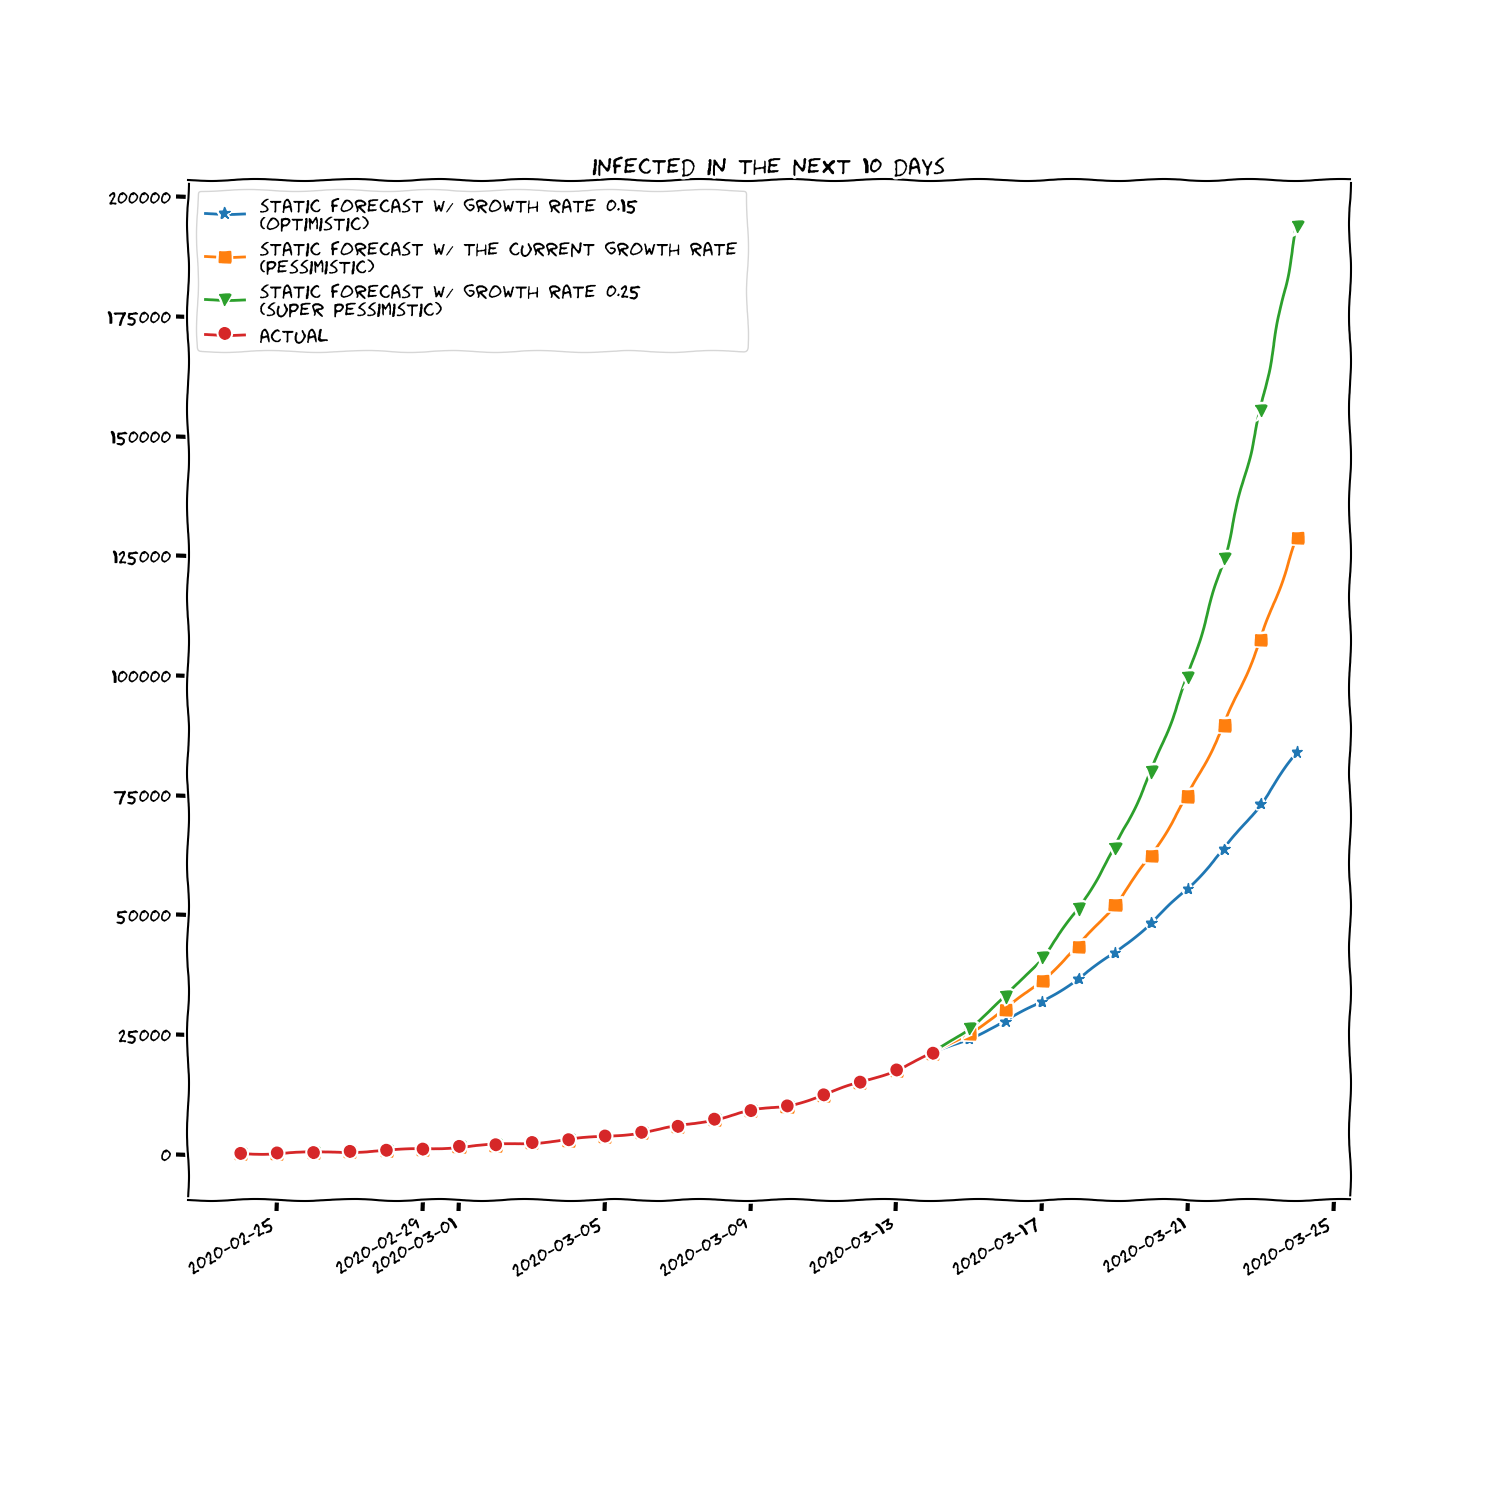
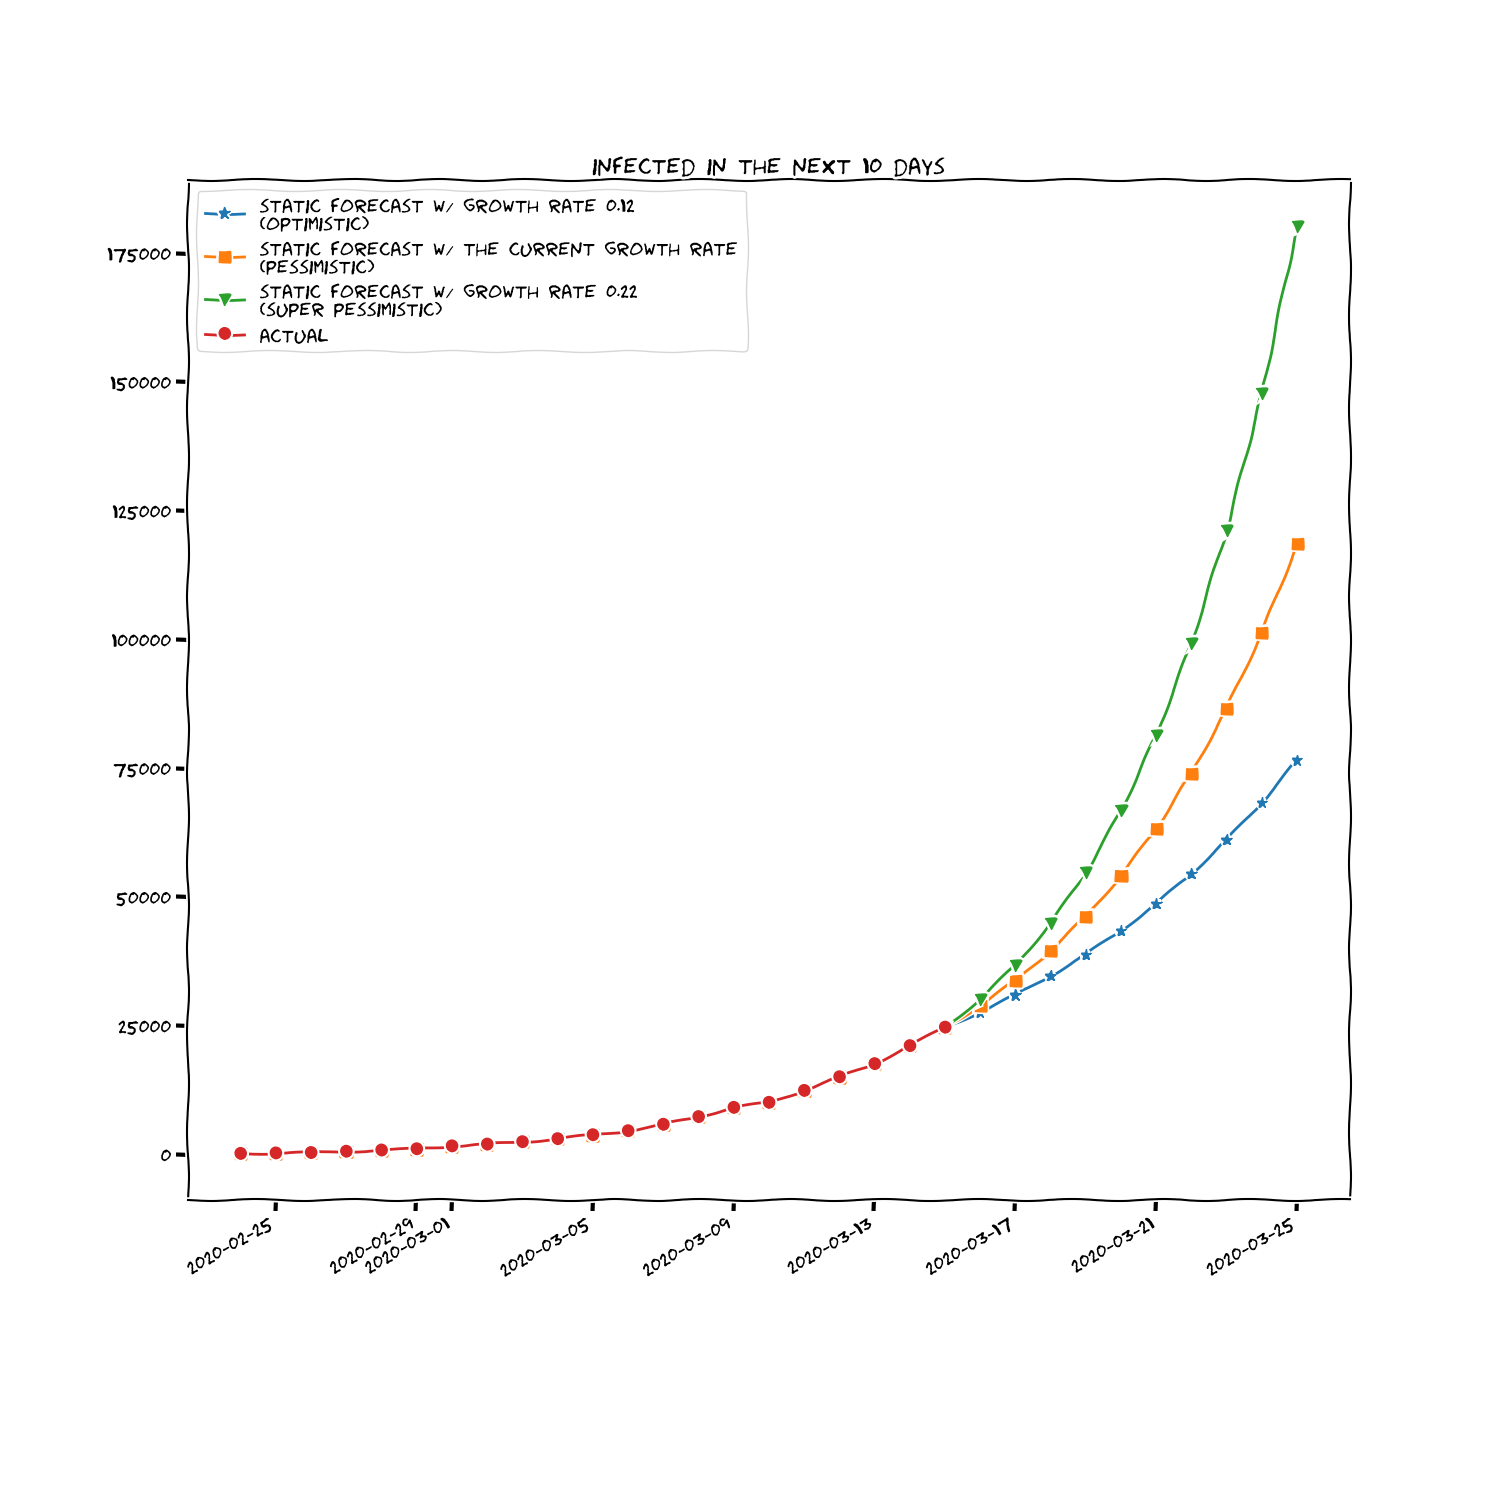
:cherries: update 2020-03-15

diff --git a/report/report.md b/report/report.md
@@ -1,37 +1,37 @@
 <div align='center'>
 
-# 2020-03-14
+# 2020-03-15
 CoVid-19 Italy Monitoring
 </div>
 
-##### Total number of infected individuals is 21157 (+3497)
+##### Total number of infected individuals is 24747 (+3590)
 Infected | Recovered | Dead
 :---: | :---: | :---:
-*17750* | *1966* | *1441*
+*20603* | *2335* | *1809*
 
-*Total number of tested individuals is 109170*
+*Total number of tested individuals is 124899*
 ***
-##### Current number of infected individuals is 17750
+##### Current number of infected individuals is 20603
 hospitalized | in ICU | home isolation
 :---: | :---: | :---:
-*8372* |*1518* |*7860*
+*9663* |*1672* |*9268*
 ***
-##### Growth rate is 0.20 (5 days smoothing is 0.18)
-- *time to 2x* is 3.84 days
-- *time to 10x* is 12.74 days
+##### Growth rate is 0.17 (5 days smoothing is 0.20)
+- *time to 2x* is 4.42 days
+- *time to 10x* is 14.69 days
 ![stats][stats]
-##### Static forecast (growth rate = 0.15)
+##### Static forecast (growth rate = 0.12)
 after 3 days | after 5 days | after 10 days
 :---: | :---: | :---:
-*32011* |*42188* |*84128* 
-##### Static forecast with the current growth rate (0.20)
+*34738* |*43551* |*76643* 
+##### Static forecast with the current growth rate (0.17)
 after 3 days | after 5 days | after 10 days
 :---: | :---: | :---:
-*36378* |*52212* |*128851* 
-##### Static forecast (growth rate = 0.25)
+*39602* |*54183* |*118633* 
+##### Static forecast (growth rate = 0.22)
 after 3 days | after 5 days | after 10 days
 :---: | :---: | :---:
-*41126* |*64055* |*193938* 
+*44901* |*66797* |*180299* 
 
 
 ![static_forecast][static_forecast]
@@ -39,15 +39,15 @@ after 3 days | after 5 days | after 10 days
 ##### Dynamic forecast with a slow decreasing growth rate
 after 3 days | after 5 days | after 10 days
 :---: | :---: | :---:
-*35779* |*49390* |*100111*
+*39030* |*51607* |*95109*
 ##### Dynamic forecast with a fast decreasing growth rate
 after 3 days | after 5 days | after 10 days
 :---: | :---: | :---:
-*35481* |*48020* |*87937*
+*38745* |*50351* |*84933*
 ##### Dynamic forecast with a super fast decreasing growth rate
 after 3 days | after 5 days | after 10 days
 :---: | :---: | :---:
-*34594* |*44069* |*58707*
+*37896* |*46713* |*59799*
 
 
 ![dynamic_forecast][dynamic_forecast]
